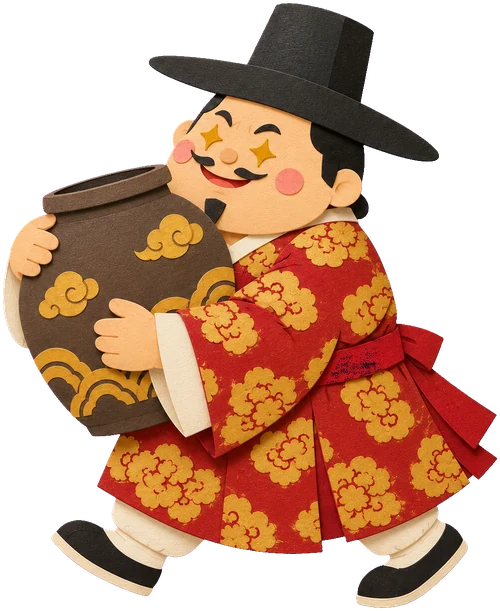
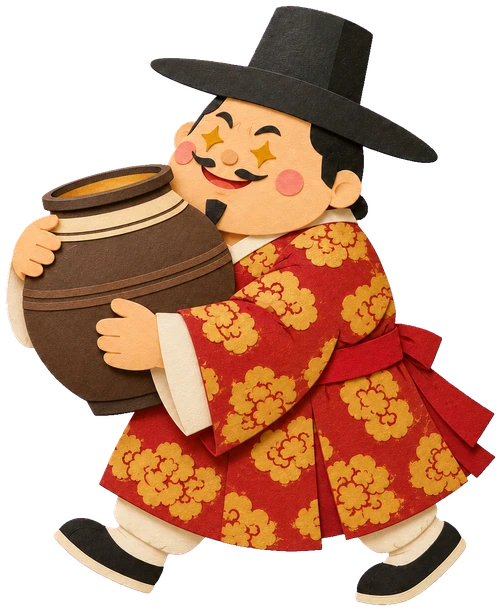
요술 항아리: 부자가 안고 가는 항아리에 옷과 같은 구름무늬가 있던 것 — 무늬 없는 원래 항아리로 다시 그림(부자는 그대로) (사용자 2026-10-30)
Claude-Session: https://claude.ai/code/session_015D7fGjm4nVvpfW8sbSdtTy

diff --git a/tales/magic_jar/magic_jar.js b/tales/magic_jar/magic_jar.js
@@ -5,7 +5,7 @@
   const GROUND = 505;
   const ASP = { coin: 1.0064, farmer_amaze: 0.8628, farmer_count: 0.8194, farmer_feast: 0.9316, farmer_hoe: 0.9299, farmer_pull: 1.0085,
     farmer_share: 0.5386, father_fall: 0.9149, father_fightA: 0.6563, father_fightB: 0.7567, father_peek: 0.7839, fwife: 0.5973,
-    fwife_share: 0.6010, gold: 1.2430, hoe: 1., jar: 0.9759, jar_cracked: 1.1566, rice: 1.0036, rich_gold: 0.7145, rich_grab: 0.8183,
+    fwife_share: 0.6010, gold: 1.2430, hoe: 1., jar: 0.9759, jar_cracked: 1.1566, rice: 1.0036, rich_gold: 0.7145, rich_grab: 0.82,
     rich_hurry: 0.7843, rich_pinned: 1.0612, rich_shout: 0.7496, table: 1.3065, };
   /* 2026-10-20 새 그림은 그림 크기(세로 픽셀)가 옛 그림과 달라서, 옛 그림과 같은 픽셀 축척이 되도록 높이에 곱하는 비율 */
   const RS = { coin: 0.958, farmer_amaze: 0.823, farmer_count: 0.736, farmer_feast: 0.856, farmer_hoe: 0.774, farmer_pull: 0.800, /* 2026-10-20 크기 일관성: 허리 숙인 당기기 자세가 모자 폭 기준 다른 농부보다 16% 작아서 0.671 → 0.800 */

diff --git a/tales/magic_jar/index.html b/tales/magic_jar/index.html
@@ -16,6 +16,6 @@
 <script src="../../entitlements.js?v=20261028pz1"></script>
 <script src="../../audio.js?v=20261030ensl"></script>
 <script src="../../engine/tale.js?v=20261030bk9"></script>
-<script src="magic_jar.js?v=20261031pit"></script>
+<script src="magic_jar.js?v=20261031rg"></script>
 </body>
 </html>
